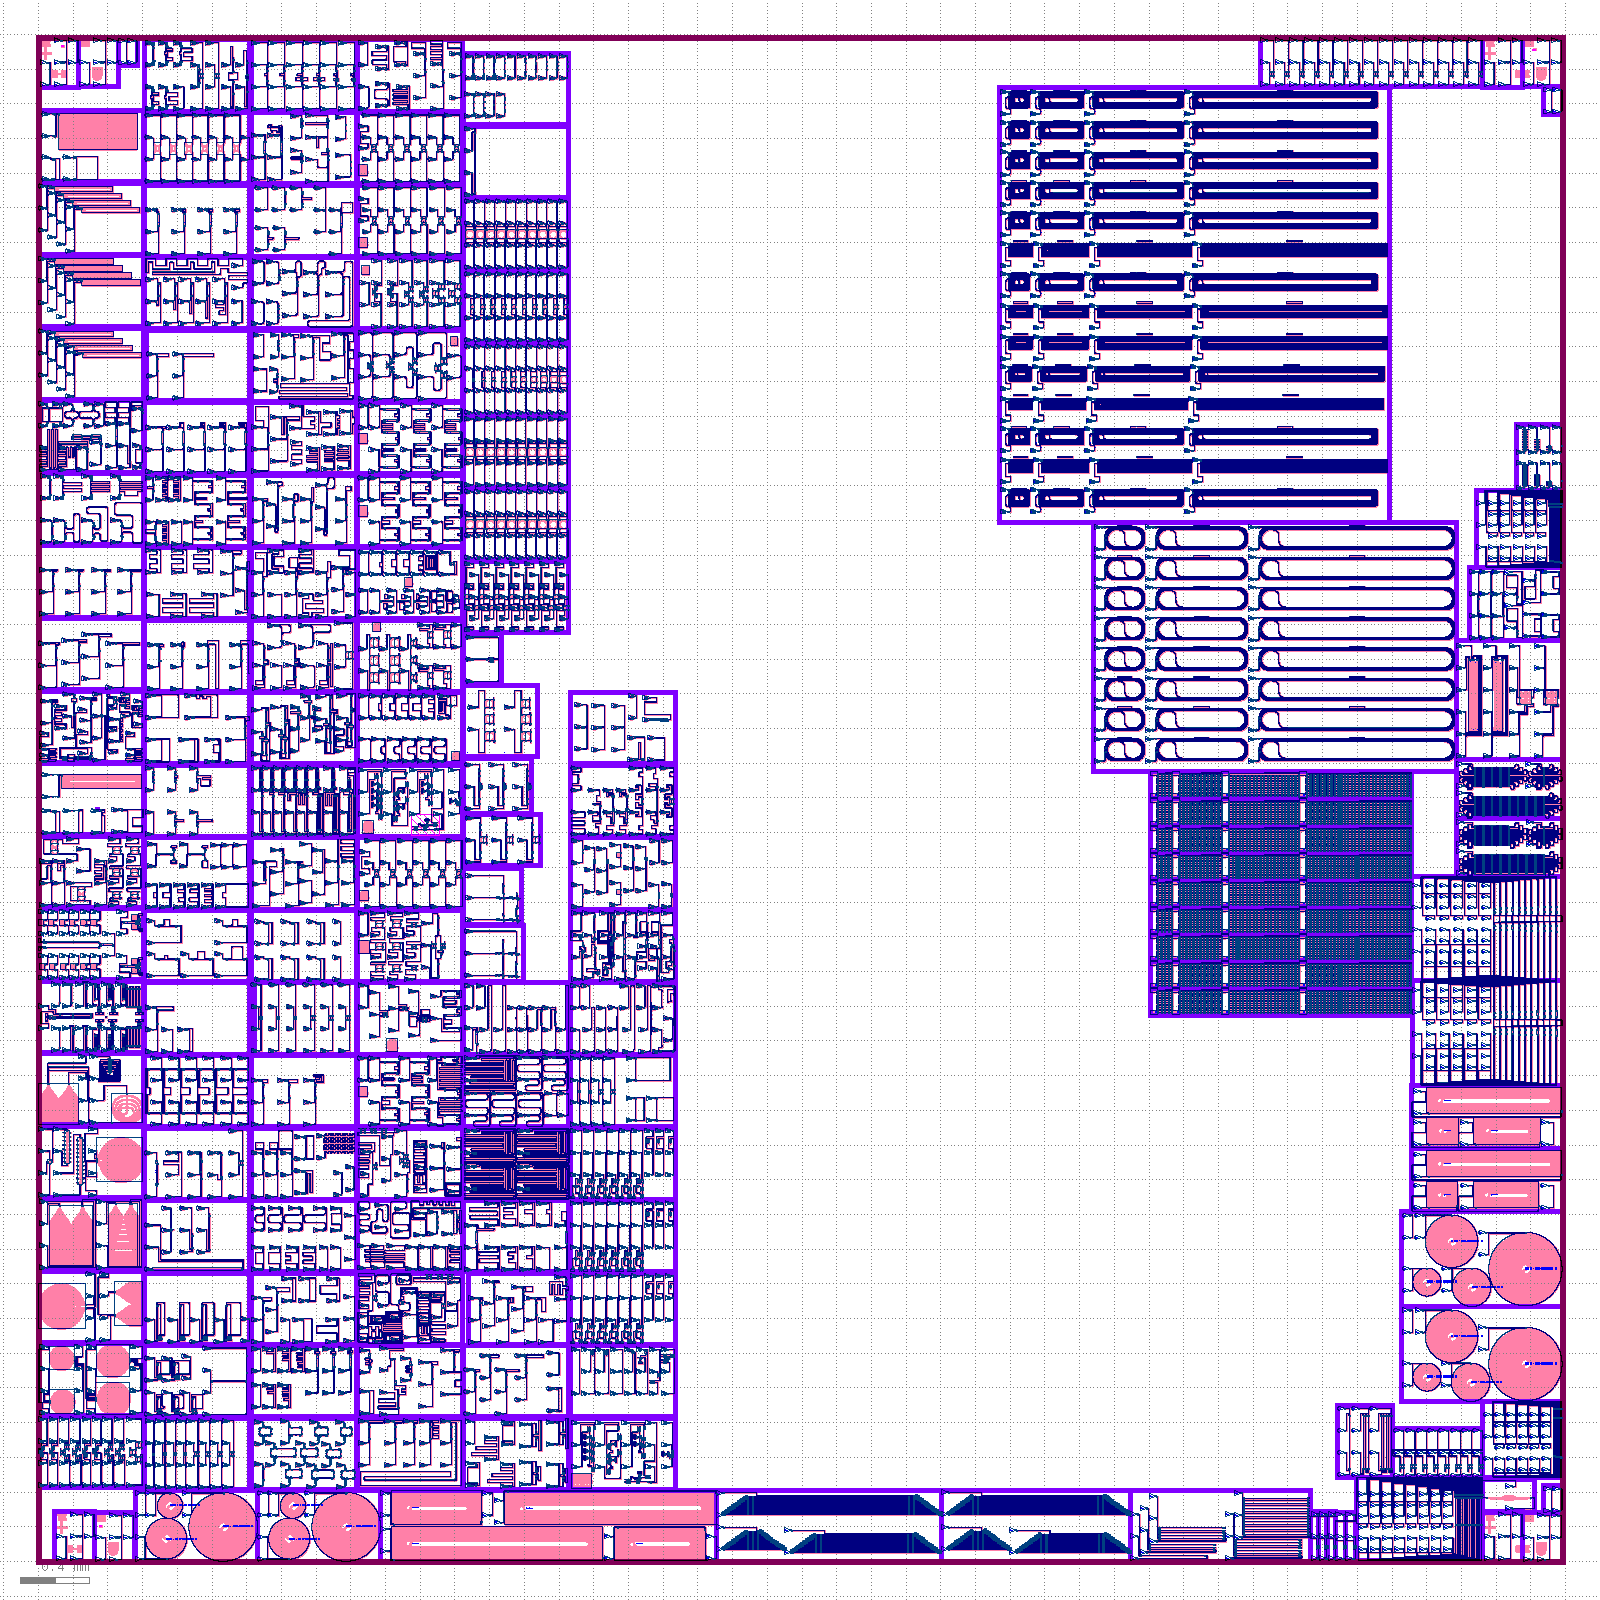
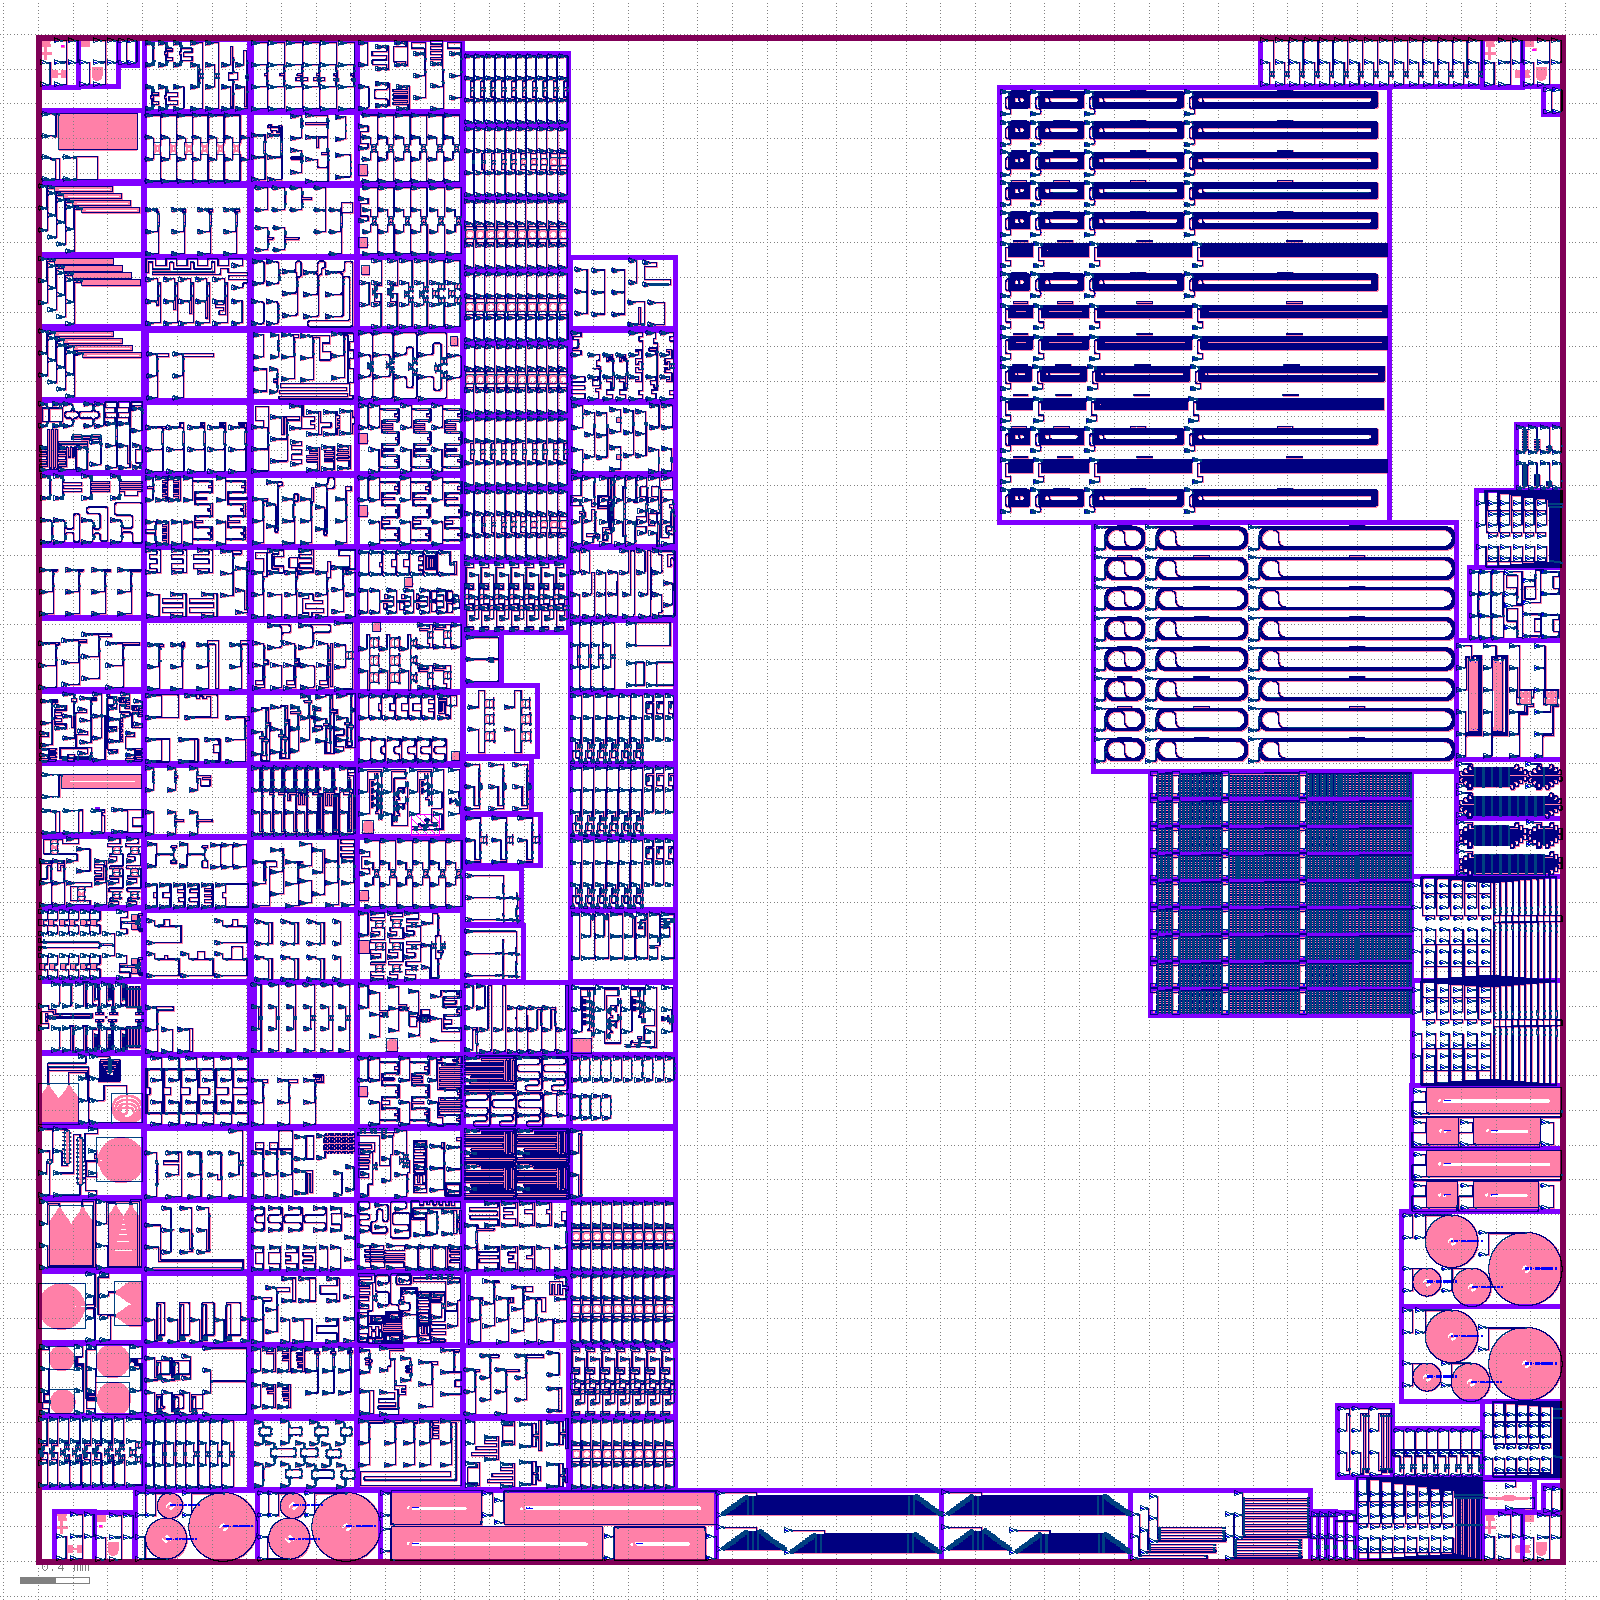
Aggregation layout: https://github.com/SiEPIC/openEBL-2026-05/actions/runs/25956352147/artifacts/7031645213

Changed region(s): [[0.2812, 0.0312, 0.4375, 0.9375]]

diff --git a/README.md b/README.md
@@ -91,5 +91,5 @@ Will be added here.
 
 Click on the following link to download the EBeam.oas merged layout file:
 <!-- start-link -->
-https://github.com/SiEPIC/openEBL-2026-05/actions/runs/25956316894/artifacts/7031633391
+https://github.com/SiEPIC/openEBL-2026-05/actions/runs/25956352147/artifacts/7031645213
 <!-- end-link -->